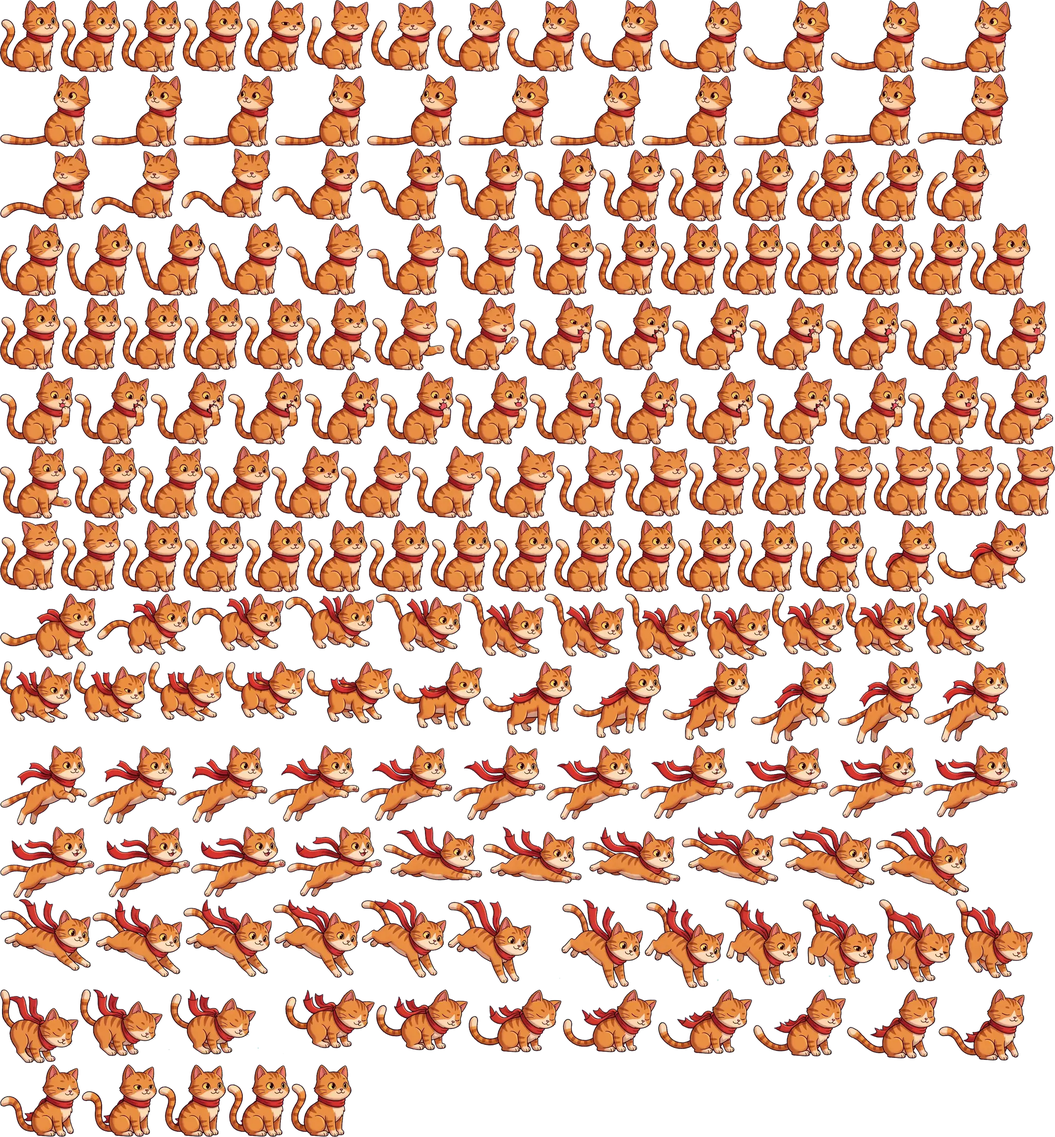
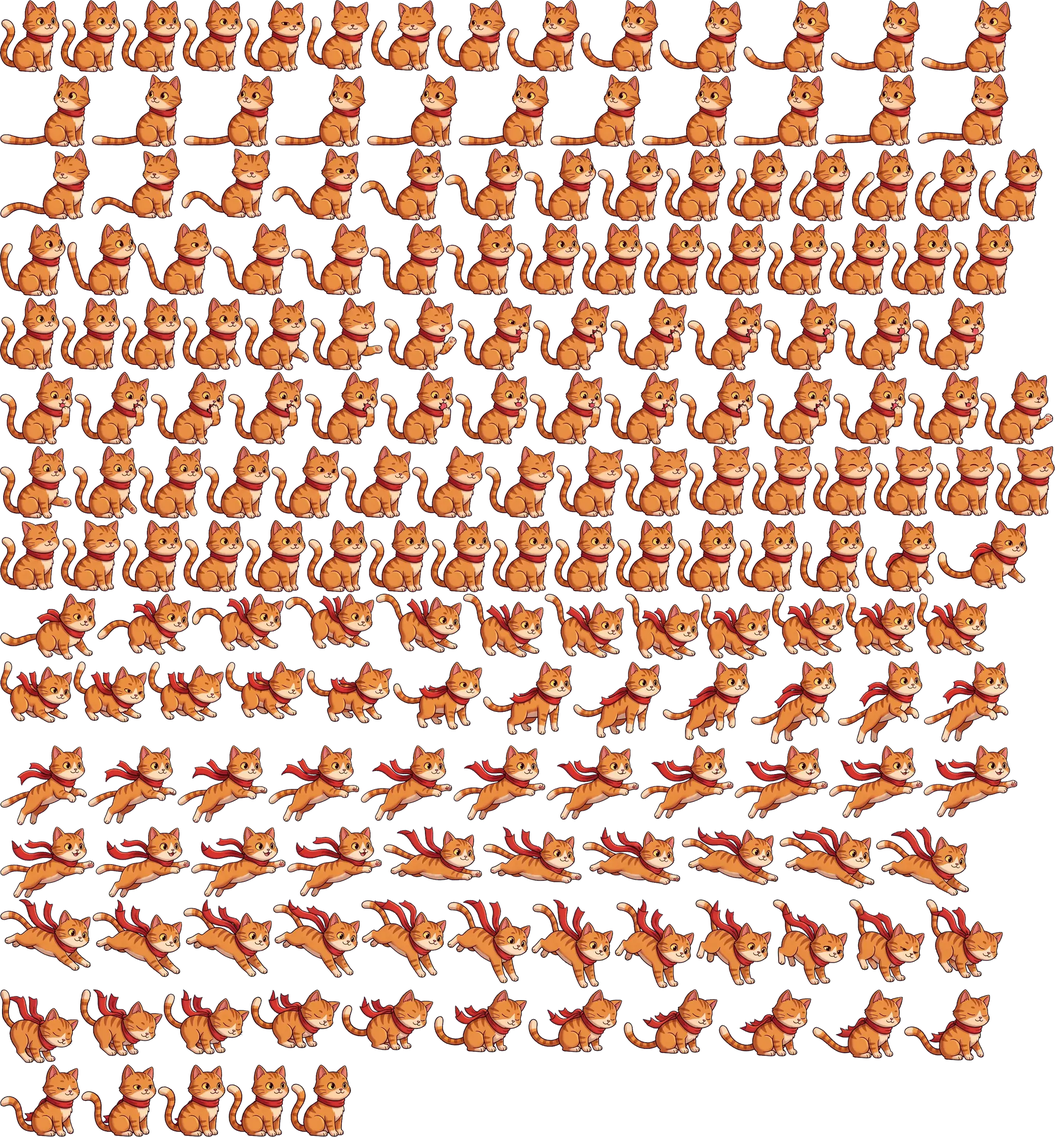
Rooftop cats: drop keyed specks, record each frame's centroid
Claude-Session: https://claude.ai/code/session_01YZco6s8NVvTizsLoHzhqp8

Changed region(s): [[0.0, 0.1249, 1.0, 0.3436], [0.0938, 0.7809, 1.0, 0.9995]]

diff --git a/sheets/assets/ghost-roofs-cats/cats.js b/sheets/assets/ghost-roofs-cats/cats.js
@@ -1,2 +1,2 @@
 /* written by gondar/sprite-refs scripts/roofcats_build.py — the rooftop cats' clips (ukulele-warmup/roofs.js) */
-window.ROOFCATS = {"ginger":{"img":"cat-ginger.webp","size":[2048,2209],"clips":{"look":[[0,0,116,141,-59.8,-137.0],[118,0,116,141,-59.8,-137.0],[236,0,116,141,-59.8,-137.0],[354,0,118,140,-60.8,-136.0],[474,0,119,140,-61.8,-136.0],[595,0,123,136,-64.8,-132.0],[720,0,127,138,-69.8,-134.0],[849,0,133,140,-77.8,-136.0],[984,0,141,140,-86.8,-136.0],[1127,0,151,140,-96.8,-136.0],[1280,0,161,142,-106.8,-138.0],[1443,0,168,142,-113.8,-138.0],[1613,0,173,142,-118.8,-138.0],[1788,0,176,142,-121.8,-138.0],[0,144,176,142,-121.8,-138.0],[178,144,176,142,-121.8,-138.0],[356,144,176,142,-121.8,-138.0],[534,144,176,142,-121.8,-138.0],[712,144,176,142,-121.8,-138.0],[890,144,176,142,-121.8,-138.0],[1068,144,176,142,-121.8,-138.0],[1246,144,176,142,-121.8,-138.0],[1424,144,176,142,-121.8,-138.0],[1602,144,177,140,-121.8,-136.0],[1781,144,177,139,-121.8,-135.0],[0,288,175,139,-118.8,-135.0],[177,288,173,137,-114.8,-133.0],[352,288,174,136,-112.8,-132.0],[528,288,170,140,-109.8,-136.0],[700,288,162,141,-103.8,-137.0],[864,288,151,141,-92.8,-137.0],[1017,288,144,142,-82.8,-138.0],[1163,288,132,143,-69.8,-139.0],[1297,288,123,143,-60.8,-139.0],[1422,288,123,143,-60.8,-139.0],[1547,288,123,143,-60.8,-139.0],[1672,288,125,143,-62.8,-139.0],[1799,288,126,143,-63.8,-139.0],[0,433,128,143,-65.8,-139.0],[130,433,132,143,-69.8,-139.0],[264,433,139,142,-76.8,-138.0],[405,433,148,141,-85.8,-137.0],[555,433,155,141,-91.8,-137.0],[712,433,155,141,-92.8,-137.0],[869,433,147,141,-86.8,-137.0],[1018,433,135,141,-77.8,-137.0],[1155,433,125,141,-67.8,-137.0],[1282,433,119,141,-61.8,-137.0],[1403,433,118,141,-60.8,-137.0],[1523,433,118,141,-60.8,-137.0],[1643,433,118,141,-60.8,-137.0],[1763,433,118,141,-60.8,-137.0],[1883,433,118,141,-60.8,-137.0],[0,578,118,141,-60.8,-137.0]],"groom":[[120,578,116,141,-59.8,-137.0],[238,578,116,141,-59.8,-137.0],[356,578,116,141,-59.8,-137.0],[474,578,118,141,-60.8,-137.0],[594,578,126,142,-62.8,-138.0],[722,578,141,142,-67.8,-138.0],[865,578,142,142,-72.8,-138.0],[1009,578,144,142,-76.8,-138.0],[1155,578,148,142,-79.8,-138.0],[1305,578,148,142,-80.8,-138.0],[1455,578,145,142,-79.8,-138.0],[1602,578,143,142,-79.8,-138.0],[1747,578,142,142,-78.8,-138.0],[1891,578,141,142,-77.8,-138.0],[0,722,142,142,-77.8,-138.0],[144,722,146,142,-78.8,-138.0],[292,722,148,142,-78.8,-138.0],[442,722,147,142,-78.8,-138.0],[591,722,145,142,-78.8,-138.0],[738,722,143,142,-78.8,-138.0],[883,722,142,142,-78.8,-138.0],[1027,722,143,142,-78.8,-138.0],[1172,722,145,142,-78.8,-138.0],[1319,722,148,142,-78.8,-138.0],[1469,722,147,142,-78.8,-138.0],[1618,722,142,142,-76.8,-138.0],[1762,722,139,142,-75.8,-138.0],[1903,722,142,142,-71.8,-138.0],[0,866,139,142,-68.8,-138.0],[141,866,126,142,-66.8,-138.0],[269,866,125,142,-65.8,-138.0],[396,866,129,142,-67.8,-138.0],[527,866,132,142,-69.8,-138.0],[661,866,137,141,-72.8,-137.0],[800,866,139,141,-73.8,-137.0],[941,866,137,141,-72.8,-137.0],[1080,866,129,139,-68.8,-135.0],[1211,866,124,138,-65.8,-134.0],[1337,866,120,136,-62.8,-132.0],[1459,866,117,136,-61.8,-132.0],[1578,866,116,137,-60.8,-133.0],[1696,866,116,137,-60.8,-133.0],[1814,866,116,137,-60.8,-133.0],[1932,866,116,137,-60.8,-133.0],[0,1010,116,137,-60.8,-133.0],[118,1010,117,139,-60.8,-135.0],[237,1010,117,141,-60.8,-137.0],[356,1010,118,141,-60.8,-137.0],[476,1010,118,141,-60.8,-137.0],[596,1010,118,141,-60.8,-137.0],[716,1010,118,141,-60.8,-137.0],[836,1010,118,141,-60.8,-137.0],[956,1010,118,141,-60.8,-137.0],[1076,1010,118,141,-60.8,-137.0]],"crouch":[[1196,1010,116,141,-59.8,-137.0],[1314,1010,116,141,-59.8,-137.0],[1432,1010,118,141,-61.8,-137.0],[1552,1010,125,141,-67.8,-137.0],[1679,1010,139,141,-77.8,-137.0],[1820,1010,175,135,-102.8,-131.0],[0,1153,186,129,-111.8,-125.0],[188,1153,183,120,-106.8,-116.0],[373,1153,178,112,-103.8,-111.0],[553,1153,174,108,-102.8,-107.0],[729,1153,168,116,-97.8,-112.0],[899,1153,156,125,-86.8,-121.0],[1057,1153,154,126,-84.8,-122.0],[1213,1153,145,130,-75.8,-126.0],[1360,1153,136,130,-66.8,-126.0],[1498,1153,141,122,-73.8,-118.0]],"takeoff":[[1641,1153,136,122,-70.8,-118.0],[1779,1153,137,121,-70.8,-117.0],[0,1285,140,120,-70.8,-116.0],[142,1285,143,119,-71.8,-115.0],[287,1285,148,117,-73.8,-113.0],[437,1285,156,113,-78.8,-109.0],[595,1285,166,121,-85.8,-117.0],[763,1285,173,133,-89.8,-129.0],[938,1285,173,143,-87.8,-142.0],[1113,1285,171,149,-84.8,-148.0],[1286,1285,170,153,-82.8,-152.0],[1458,1285,166,161,-75.8,-160.0],[1626,1285,165,161,-72.8,-163.0],[1793,1285,165,158,-69.8,-165.0],[0,1448,169,156,-67.8,-167.0],[171,1448,172,154,-64.8,-169.0],[345,1448,174,151,-62.8,-170.0],[521,1448,177,149,-61.8,-171.0],[700,1448,178,147,-60.8,-172.0],[880,1448,179,146,-59.8,-173.0],[1061,1448,180,145,-58.8,-174.0],[1243,1448,181,143,-58.8,-174.0],[1426,1448,181,143,-57.8,-175.0],[1609,1448,182,141,-57.8,-175.0],[1793,1448,182,140,-56.8,-175.0],[0,1606,183,139,-56.8,-175.0],[185,1606,184,138,-56.8,-175.0],[371,1606,184,138,-55.8,-175.0],[557,1606,185,137,-55.8,-175.0]],"landing":[[744,1606,192,105,-119.8,-178.0],[938,1606,191,111,-117.8,-178.0],[1131,1606,190,114,-115.8,-175.0],[1323,1606,188,114,-113.8,-169.0],[1513,1606,185,121,-110.8,-169.0],[1700,1606,182,135,-107.8,-176.0],[0,1747,177,140,-103.8,-174.0],[179,1747,175,152,-99.8,-179.0],[356,1747,172,152,-94.8,-172.0],[530,1747,169,153,-89.8,-167.0],[701,1747,166,153,-84.8,-161.0],[869,1747,219,164,-79.8,-166.0],[1090,1747,159,173,-71.6,-171.0],[1251,1747,155,173,-86.3,-169.0],[1408,1747,148,168,-59.1,-164.0],[1558,1747,146,167,-55.9,-163.0],[1706,1747,147,162,-54.7,-158.0],[1855,1747,150,154,-54.4,-150.0],[0,1922,153,144,-54.2,-140.0],[155,1922,174,130,-61.0,-126.0],[331,1922,220,127,-118.8,-123.0],[553,1922,175,115,-78.5,-111.0],[730,1922,178,119,-85.3,-115.0],[910,1922,180,123,-92.1,-119.0],[1092,1922,183,123,-95.8,-119.0],[1277,1922,183,126,-100.6,-122.0],[1462,1922,180,131,-105.4,-127.0],[1644,1922,176,135,-110.2,-131.0],[1822,1922,167,139,-108.9,-135.0],[0,2068,157,141,-97.7,-137.0],[159,2068,146,141,-87.5,-137.0],[307,2068,132,141,-73.3,-137.0],[441,2068,122,141,-64.0,-137.0],[565,2068,118,141,-60.8,-137.0]]},"touch":11,"push":13,"out":[36.7,-38.0],"in":[-23.8,-73.0]},"tux":{"img":"cat-tux.webp","size":[2048,2264],"clips":{"look":[[0,0,115,142,-59.8,-138.0],[117,0,115,142,-59.8,-138.0],[234,0,116,141,-59.8,-137.0],[352,0,117,141,-59.8,-137.0],[471,0,120,139,-61.8,-135.0],[593,0,122,137,-64.8,-133.0],[717,0,127,139,-70.8,-135.0],[846,0,135,141,-79.8,-137.0],[983,0,146,141,-90.8,-137.0],[1131,0,157,141,-101.8,-137.0],[1290,0,164,142,-108.8,-138.0],[1456,0,168,143,-112.8,-139.0],[1626,0,169,143,-113.8,-139.0],[1797,0,169,143,-113.8,-139.0],[0,145,169,143,-113.8,-139.0],[171,145,169,143,-113.8,-139.0],[342,145,169,143,-113.8,-139.0],[513,145,169,143,-113.8,-139.0],[684,145,169,143,-113.8,-139.0],[855,145,169,143,-113.8,-139.0],[1026,145,169,143,-113.8,-139.0],[1197,145,169,141,-113.8,-137.0],[1368,145,169,140,-113.8,-136.0],[1539,145,170,139,-112.8,-135.0],[1711,145,170,137,-111.8,-133.0],[0,290,169,137,-109.8,-133.0],[171,290,167,139,-106.8,-135.0],[340,290,164,141,-103.8,-137.0],[506,290,159,142,-98.8,-138.0],[667,290,150,142,-91.8,-138.0],[819,290,140,143,-82.8,-139.0],[961,290,131,143,-71.8,-139.0],[1094,290,120,143,-60.8,-139.0],[1216,290,120,143,-60.8,-139.0],[1338,290,121,143,-61.8,-139.0],[1461,290,124,143,-64.8,-139.0],[1587,290,128,143,-68.8,-139.0],[1717,290,134,143,-74.8,-139.0],[1853,290,142,143,-82.8,-139.0],[0,435,148,143,-89.8,-139.0],[150,435,153,142,-94.8,-138.0],[305,435,155,141,-94.8,-137.0],[462,435,152,141,-92.8,-137.0],[616,435,148,140,-88.8,-136.0],[766,435,141,140,-82.8,-136.0],[909,435,132,141,-74.8,-137.0],[1043,435,125,141,-67.8,-137.0],[1170,435,119,141,-62.8,-137.0],[1291,435,117,142,-60.8,-138.0],[1410,435,117,142,-60.8,-138.0],[1529,435,117,142,-60.8,-138.0],[1648,435,117,142,-60.8,-138.0],[1767,435,117,142,-60.8,-138.0],[1886,435,117,142,-60.8,-138.0]],"groom":[[0,580,116,142,-59.8,-138.0],[118,580,115,142,-59.8,-138.0],[235,580,116,141,-60.8,-138.0],[353,580,119,141,-62.8,-138.0],[474,580,125,141,-66.8,-138.0],[601,580,134,142,-73.8,-139.0],[737,580,143,142,-80.8,-139.0],[882,580,150,142,-85.8,-139.0],[1034,580,152,142,-86.8,-139.0],[1188,580,151,142,-85.8,-139.0],[1341,580,147,142,-83.8,-139.0],[1490,580,144,143,-81.8,-140.0],[1636,580,141,142,-79.8,-139.0],[1779,580,141,142,-79.8,-139.0],[0,725,142,142,-79.8,-139.0],[144,725,143,142,-79.8,-139.0],[289,725,144,142,-79.8,-139.0],[435,725,143,143,-79.8,-140.0],[580,725,142,142,-79.8,-139.0],[724,725,142,142,-79.8,-139.0],[868,725,142,142,-79.8,-139.0],[1012,725,143,142,-79.8,-139.0],[1157,725,144,142,-79.8,-139.0],[1303,725,143,142,-79.8,-139.0],[1448,725,141,143,-78.8,-140.0],[1591,725,140,143,-78.8,-140.0],[1733,725,141,142,-79.8,-139.0],[1876,725,144,142,-82.8,-139.0],[0,870,147,142,-84.8,-139.0],[149,870,150,141,-86.8,-138.0],[301,870,149,142,-85.8,-138.0],[452,870,141,143,-79.8,-139.0],[595,870,132,142,-72.8,-138.0],[729,870,121,139,-64.8,-135.0],[852,870,116,137,-60.8,-133.0],[970,870,116,137,-60.8,-133.0],[1088,870,116,138,-60.8,-134.0],[1206,870,118,139,-62.8,-135.0],[1326,870,120,139,-64.8,-135.0],[1448,870,121,139,-65.8,-135.0],[1571,870,121,138,-65.8,-134.0],[1694,870,120,139,-65.8,-135.0],[1816,870,120,139,-65.8,-135.0],[0,1015,120,139,-65.8,-135.0],[122,1015,119,139,-63.8,-135.0],[243,1015,119,139,-62.8,-135.0],[364,1015,118,141,-61.8,-137.0],[484,1015,117,141,-60.8,-137.0],[603,1015,117,142,-60.8,-138.0],[722,1015,117,142,-60.8,-138.0],[841,1015,117,142,-60.8,-138.0],[960,1015,117,142,-60.8,-138.0],[1079,1015,117,142,-60.8,-138.0],[1198,1015,117,142,-60.8,-138.0]],"crouch":[[1317,1015,116,142,-59.8,-138.0],[1435,1015,117,141,-60.8,-137.0],[1554,1015,119,141,-62.8,-137.0],[1675,1015,125,140,-67.8,-136.0],[1802,1015,132,141,-75.8,-137.0],[0,1159,140,141,-84.8,-137.0],[142,1159,144,143,-90.8,-139.0],[288,1159,160,140,-99.8,-136.0],[450,1159,182,132,-110.8,-128.0],[634,1159,182,121,-107.8,-118.0],[818,1159,178,110,-104.8,-109.0],[998,1159,170,106,-101.8,-106.0],[1170,1159,161,118,-94.8,-115.0],[1333,1159,150,129,-84.8,-126.0],[1485,1159,136,136,-70.8,-133.0],[1623,1159,123,138,-57.8,-135.0],[1748,1159,128,134,-63.8,-131.0],[1878,1159,135,128,-70.8,-125.0]],"takeoff":[[0,1304,134,126,-69.8,-123.0],[136,1304,134,126,-69.8,-123.0],[272,1304,137,124,-70.8,-121.0],[411,1304,139,122,-72.8,-119.0],[552,1304,142,120,-75.8,-117.0],[696,1304,145,118,-76.8,-115.0],[843,1304,150,116,-80.8,-113.0],[995,1304,155,112,-84.8,-109.0],[1152,1304,164,107,-88.8,-104.0],[1318,1304,173,111,-92.8,-108.0],[1493,1304,181,120,-95.8,-117.0],[1676,1304,185,129,-96.8,-126.0],[1863,1304,184,135,-95.8,-134.0],[0,1441,182,139,-93.8,-139.0],[184,1441,180,143,-91.8,-143.0],[366,1441,178,148,-87.8,-148.0],[546,1441,178,154,-84.8,-154.0],[726,1441,176,159,-79.8,-159.0],[904,1441,177,164,-75.8,-165.0],[1083,1441,178,161,-72.8,-165.0],[1263,1441,180,158,-71.8,-165.0],[1445,1441,183,155,-70.8,-165.0],[1630,1441,185,153,-69.8,-166.0],[1817,1441,186,152,-68.8,-167.0],[0,1607,187,151,-67.8,-168.0],[189,1607,188,149,-66.8,-169.0],[379,1607,189,148,-66.8,-170.0],[570,1607,191,147,-65.8,-171.0],[763,1607,191,146,-64.8,-171.0],[956,1607,192,145,-64.8,-172.0],[1150,1607,192,145,-63.8,-173.0],[1344,1607,192,143,-62.8,-173.0],[1538,1607,193,143,-62.8,-174.0]],"landing":[[1733,1607,198,92,-117.8,-167.0],[0,1760,193,97,-112.8,-164.0],[195,1760,189,100,-109.8,-160.0],[386,1760,182,108,-104.8,-160.0],[570,1760,177,120,-100.8,-163.0],[749,1760,170,130,-95.8,-164.0],[921,1760,166,142,-91.8,-166.0],[1089,1760,165,153,-88.8,-167.0],[1256,1760,163,163,-83.8,-169.0],[1421,1760,161,174,-78.8,-171.0],[1584,1760,158,177,-73.6,-173.0],[1744,1760,154,178,-68.3,-174.0],[1900,1760,146,179,-60.1,-175.0],[0,1941,137,179,-48.8,-175.0],[139,1941,130,177,-42.6,-173.0],[271,1941,125,169,-38.3,-165.0],[398,1941,126,156,-40.1,-153.0],[526,1941,130,141,-45.8,-138.0],[658,1941,137,130,-53.6,-127.0],[797,1941,150,122,-64.3,-119.0],[949,1941,159,114,-72.1,-111.0],[1110,1941,166,104,-79.8,-101.0],[1278,1941,170,112,-87.6,-108.0],[1450,1941,175,119,-97.3,-115.0],[1627,1941,179,119,-103.0,-115.0],[1808,1941,183,120,-108.8,-116.0],[0,2122,186,125,-114.6,-121.0],[188,2122,182,131,-115.3,-127.0],[372,2122,173,136,-112.0,-132.0],[547,2122,164,140,-104.8,-136.0],[713,2122,150,141,-91.6,-137.0],[865,2122,137,141,-79.3,-137.0],[1004,2122,126,142,-69.1,-138.0],[1132,2122,120,142,-63.8,-138.0]]},"touch":9,"push":19,"out":[33.7,-31.0],"in":[-18.8,-75.0]},"plate":0.9375};
+window.ROOFCATS = {"ginger":{"img":"cat-ginger.webp","size":[2048,2209],"clips":{"look":[[0,0,116,141,-59.8,-137.0,2.7,-60.9],[118,0,116,141,-59.8,-137.0,2.7,-60.9],[236,0,116,141,-59.8,-137.0,2.7,-60.8],[354,0,118,140,-60.8,-136.0,3.0,-60.4],[474,0,119,140,-61.8,-136.0,3.1,-60.0],[595,0,123,136,-64.8,-132.0,2.6,-59.3],[720,0,127,138,-69.8,-134.0,1.4,-59.2],[849,0,133,140,-77.8,-136.0,-0.1,-58.6],[984,0,141,140,-86.8,-136.0,-0.8,-58.3],[1127,0,151,140,-96.8,-136.0,-1.4,-57.5],[1280,0,161,142,-106.8,-138.0,-1.6,-56.7],[1443,0,168,142,-113.8,-138.0,-1.6,-56.0],[1613,0,173,142,-118.8,-138.0,-1.7,-55.3],[1788,0,176,142,-121.8,-138.0,-1.6,-55.0],[0,144,176,142,-121.8,-138.0,-1.5,-54.8],[178,144,176,142,-121.8,-138.0,-1.4,-54.7],[356,144,176,142,-121.8,-138.0,-1.3,-54.8],[534,144,176,142,-121.8,-138.0,-1.3,-54.8],[712,144,176,142,-121.8,-138.0,-1.3,-54.8],[890,144,176,142,-121.8,-138.0,-1.3,-54.8],[1068,144,176,142,-121.8,-138.0,-1.3,-54.8],[1246,144,176,142,-121.8,-138.0,-1.3,-54.8],[1424,144,176,142,-121.8,-138.0,-1.3,-54.8],[1602,144,177,140,-121.8,-136.0,-1.5,-54.5],[1781,144,177,139,-121.8,-135.0,-1.5,-54.3],[0,288,175,139,-118.8,-135.0,-1.4,-54.3],[177,288,173,137,-114.8,-133.0,-0.8,-54.8],[352,288,174,136,-112.8,-132.0,0.5,-56.7],[528,288,170,140,-109.8,-136.0,0.9,-57.9],[700,288,162,141,-103.8,-137.0,1.0,-59.1],[864,288,151,141,-92.8,-137.0,1.6,-60.2],[1017,288,141,142,-82.8,-138.0,2.3,-60.7],[1160,288,128,143,-69.8,-139.0,2.9,-60.9],[1290,288,119,143,-60.8,-139.0,3.6,-60.9],[1411,288,119,143,-60.8,-139.0,4.3,-60.7],[1532,288,119,143,-60.8,-139.0,4.6,-60.5],[1653,288,121,143,-62.8,-139.0,4.3,-60.4],[1776,288,122,143,-63.8,-139.0,3.8,-60.5],[1900,288,124,143,-65.8,-139.0,3.1,-60.6],[0,433,128,143,-69.8,-139.0,2.5,-60.7],[130,433,135,142,-76.8,-138.0,2.2,-60.7],[267,433,144,141,-85.8,-137.0,1.9,-60.3],[413,433,150,141,-91.8,-137.0,1.8,-59.9],[565,433,151,141,-92.8,-137.0,2.1,-59.6],[718,433,145,141,-86.8,-137.0,2.0,-60.0],[865,433,135,141,-77.8,-137.0,2.1,-60.5],[1002,433,125,141,-67.8,-137.0,2.5,-60.8],[1129,433,119,141,-61.8,-137.0,2.7,-60.8],[1250,433,118,141,-60.8,-137.0,2.8,-60.8],[1370,433,118,141,-60.8,-137.0,2.8,-60.8],[1490,433,118,141,-60.8,-137.0,2.8,-60.8],[1610,433,118,141,-60.8,-137.0,2.8,-60.8],[1730,433,118,141,-60.8,-137.0,2.8,-60.8],[1850,433,118,141,-60.8,-137.0,2.8,-60.8]],"groom":[[0,578,116,141,-59.8,-137.0,2.8,-60.9],[118,578,116,141,-59.8,-137.0,2.7,-60.9],[236,578,116,141,-59.8,-137.0,2.9,-60.5],[354,578,118,141,-60.8,-137.0,3.8,-60.2],[474,578,126,142,-62.8,-138.0,4.8,-60.3],[602,578,141,142,-67.8,-138.0,6.2,-60.2],[745,578,142,142,-72.8,-138.0,6.9,-60.2],[889,578,144,142,-76.8,-138.0,6.8,-60.0],[1035,578,148,142,-79.8,-138.0,6.5,-59.8],[1185,578,148,142,-80.8,-138.0,6.5,-60.0],[1335,578,145,142,-79.8,-138.0,6.3,-60.1],[1482,578,143,142,-79.8,-138.0,6.2,-60.3],[1627,578,142,142,-78.8,-138.0,6.3,-60.5],[1771,578,141,142,-77.8,-138.0,6.3,-60.5],[0,722,142,142,-77.8,-138.0,6.5,-60.2],[144,722,146,142,-78.8,-138.0,6.5,-60.0],[292,722,148,142,-78.8,-138.0,6.6,-59.8],[442,722,147,142,-78.8,-138.0,6.6,-59.9],[591,722,145,142,-78.8,-138.0,6.6,-60.1],[738,722,143,142,-78.8,-138.0,6.5,-60.2],[883,722,142,142,-78.8,-138.0,6.4,-60.3],[1027,722,143,142,-78.8,-138.0,6.5,-60.2],[1172,722,145,142,-78.8,-138.0,6.6,-60.0],[1319,722,148,142,-78.8,-138.0,6.7,-59.8],[1469,722,147,142,-78.8,-138.0,6.5,-60.0],[1618,722,142,142,-76.8,-138.0,6.5,-60.3],[1762,722,139,142,-75.8,-138.0,6.6,-60.5],[1903,722,142,142,-71.8,-138.0,5.8,-60.5],[0,866,139,142,-68.8,-138.0,5.4,-60.0],[141,866,126,142,-66.8,-138.0,4.3,-60.0],[269,866,125,142,-65.8,-138.0,4.2,-60.1],[396,866,129,142,-67.8,-138.0,4.6,-60.0],[527,866,132,142,-69.8,-138.0,5.1,-59.7],[661,866,137,141,-72.8,-137.0,5.5,-59.4],[800,866,139,141,-73.8,-137.0,5.5,-59.1],[941,866,137,141,-72.8,-137.0,4.9,-59.5],[1080,866,129,139,-68.8,-135.0,3.8,-60.0],[1211,866,124,138,-65.8,-134.0,3.1,-60.4],[1337,866,120,136,-62.8,-132.0,2.5,-60.7],[1459,866,117,136,-61.8,-132.0,2.0,-60.9],[1578,866,116,137,-60.8,-133.0,2.0,-61.0],[1696,866,116,137,-60.8,-133.0,2.0,-61.1],[1814,866,116,137,-60.8,-133.0,2.0,-61.0],[1932,866,116,137,-60.8,-133.0,2.0,-60.9],[0,1010,116,137,-60.8,-133.0,2.0,-60.9],[118,1010,117,139,-60.8,-135.0,2.3,-61.2],[237,1010,117,141,-60.8,-137.0,2.6,-61.0],[356,1010,118,141,-60.8,-137.0,2.8,-60.8],[476,1010,118,141,-60.8,-137.0,2.8,-60.8],[596,1010,118,141,-60.8,-137.0,2.8,-60.8],[716,1010,118,141,-60.8,-137.0,2.8,-60.8],[836,1010,118,141,-60.8,-137.0,2.8,-60.8],[956,1010,118,141,-60.8,-137.0,2.8,-60.8],[1076,1010,118,141,-60.8,-137.0,2.8,-60.8]],"crouch":[[1196,1010,116,141,-59.8,-137.0,2.7,-60.9],[1314,1010,116,141,-59.8,-137.0,2.7,-60.8],[1432,1010,118,141,-61.8,-137.0,2.7,-60.5],[1552,1010,125,141,-67.8,-137.0,2.6,-60.1],[1679,1010,139,141,-77.8,-137.0,3.3,-59.6],[1820,1010,175,135,-102.8,-131.0,5.6,-56.5],[0,1153,186,129,-111.8,-125.0,6.5,-55.3],[188,1153,183,120,-106.8,-116.0,4.1,-53.7],[373,1153,178,112,-103.8,-111.0,1.4,-54.6],[553,1153,174,108,-102.8,-107.0,0.3,-54.6],[729,1153,168,116,-97.8,-112.0,0.5,-53.9],[899,1153,156,125,-86.8,-121.0,1.1,-53.9],[1057,1153,154,126,-84.8,-122.0,1.2,-53.8],[1213,1153,145,130,-75.8,-126.0,1.7,-53.7],[1360,1153,136,130,-66.8,-126.0,1.5,-54.0],[1498,1153,141,122,-73.8,-118.0,0.6,-54.1]],"takeoff":[[1641,1153,136,122,-70.8,-118.0,0.7,-53.7],[1779,1153,137,121,-70.8,-117.0,1.6,-53.1],[0,1285,140,120,-70.8,-116.0,2.8,-52.1],[142,1285,143,119,-71.8,-115.0,3.4,-51.6],[287,1285,148,117,-73.8,-113.0,4.2,-51.4],[437,1285,156,113,-78.8,-109.0,5.8,-52.2],[595,1285,166,121,-85.8,-117.0,8.5,-54.7],[763,1285,173,133,-89.8,-129.0,13.0,-58.9],[938,1285,173,143,-87.8,-142.0,17.6,-65.4],[1113,1285,171,149,-84.8,-148.0,18.6,-70.0],[1286,1285,170,153,-82.8,-152.0,19.3,-74.2],[1458,1285,166,161,-75.8,-160.0,22.7,-81.7],[1626,1285,165,161,-72.8,-163.0,25.2,-85.9],[1793,1285,165,158,-69.8,-165.0,27.8,-89.4],[0,1448,169,156,-67.8,-167.0,30.0,-92.1],[171,1448,172,154,-64.8,-169.0,32.1,-94.8],[345,1448,174,151,-62.8,-170.0,33.9,-97.1],[521,1448,177,149,-61.8,-171.0,35.3,-99.1],[700,1448,178,147,-60.8,-172.0,36.4,-100.8],[880,1448,179,146,-59.8,-173.0,37.3,-102.2],[1061,1448,180,145,-58.8,-174.0,38.0,-103.4],[1243,1448,181,143,-58.8,-174.0,38.7,-104.6],[1426,1448,181,143,-57.8,-175.0,39.3,-105.5],[1609,1448,182,141,-57.8,-175.0,39.8,-106.6],[1793,1448,182,140,-56.8,-175.0,40.3,-107.4],[0,1606,183,139,-56.8,-175.0,40.7,-108.2],[185,1606,184,138,-56.8,-175.0,41.1,-108.9],[371,1606,184,138,-55.8,-175.0,41.4,-109.6],[557,1606,185,137,-55.8,-175.0,41.9,-110.2]],"landing":[[744,1606,192,105,-119.8,-178.0,-15.9,-117.9],[938,1606,191,111,-117.8,-178.0,-14.1,-115.8],[1131,1606,190,114,-115.8,-175.0,-12.3,-113.7],[1323,1606,188,114,-113.8,-169.0,-9.5,-111.6],[1513,1606,185,121,-110.8,-169.0,-7.2,-110.3],[1700,1606,182,135,-107.8,-176.0,-4.9,-108.3],[0,1747,177,140,-103.8,-174.0,-3.1,-104.9],[179,1747,175,152,-99.8,-179.0,-1.6,-101.7],[356,1747,172,152,-94.8,-172.0,0.5,-98.0],[530,1747,169,153,-89.8,-167.0,3.2,-94.6],[701,1747,165,153,-84.8,-161.0,5.0,-92.4],[868,1747,162,164,-79.8,-166.0,6.9,-89.6],[1032,1747,159,173,-71.6,-171.0,11.2,-85.8],[1193,1747,155,173,-65.3,-169.0,13.7,-81.1],[1350,1747,148,168,-59.1,-164.0,13.4,-77.6],[1500,1747,146,167,-55.9,-163.0,14.9,-73.5],[1648,1747,147,162,-54.7,-158.0,15.7,-70.0],[1797,1747,150,154,-54.4,-150.0,16.2,-66.1],[0,1922,153,144,-54.2,-140.0,16.4,-61.2],[155,1922,161,130,-61.0,-126.0,15.5,-57.5],[318,1922,166,127,-67.8,-123.0,13.9,-56.0],[486,1922,175,115,-78.5,-111.0,11.6,-53.9],[663,1922,178,119,-85.3,-115.0,9.3,-52.8],[843,1922,180,123,-92.1,-119.0,7.6,-50.7],[1025,1922,183,123,-95.8,-119.0,7.1,-50.0],[1210,1922,183,126,-100.6,-122.0,5.0,-50.4],[1395,1922,180,131,-105.4,-127.0,2.1,-51.9],[1577,1922,176,135,-110.2,-131.0,-0.7,-53.6],[1755,1922,167,139,-108.9,-135.0,-2.1,-56.3],[0,2068,156,141,-97.7,-137.0,0.2,-58.3],[158,2068,146,141,-87.5,-137.0,1.8,-59.3],[306,2068,132,141,-73.3,-137.0,3.3,-60.4],[440,2068,122,141,-64.0,-137.0,3.1,-60.7],[564,2068,118,141,-60.8,-137.0,2.7,-60.8]]},"touch":11,"push":13,"out":[36.7,-38.0],"in":[-23.8,-73.0]},"tux":{"img":"cat-tux.webp","size":[2048,2264],"clips":{"look":[[0,0,115,142,-59.8,-138.0,2.1,-61.1],[117,0,115,142,-59.8,-138.0,2.1,-61.0],[234,0,116,141,-59.8,-137.0,2.5,-61.0],[352,0,117,141,-59.8,-137.0,3.0,-60.8],[471,0,120,139,-61.8,-135.0,3.3,-60.5],[593,0,122,137,-64.8,-133.0,2.8,-60.1],[717,0,127,139,-70.8,-135.0,1.5,-59.6],[846,0,135,141,-79.8,-137.0,0.4,-59.0],[983,0,146,141,-90.8,-137.0,-0.3,-58.2],[1131,0,157,141,-101.8,-137.0,-0.3,-57.4],[1290,0,164,142,-108.8,-138.0,0.1,-56.8],[1456,0,168,143,-112.8,-139.0,0.3,-56.1],[1626,0,169,143,-113.8,-139.0,0.6,-55.8],[1797,0,169,143,-113.8,-139.0,0.8,-55.8],[0,145,169,143,-113.8,-139.0,0.7,-55.7],[171,145,169,143,-113.8,-139.0,0.7,-55.7],[342,145,169,143,-113.8,-139.0,0.7,-55.7],[513,145,169,143,-113.8,-139.0,0.7,-55.7],[684,145,169,143,-113.8,-139.0,0.7,-55.8],[855,145,169,143,-113.8,-139.0,0.7,-55.8],[1026,145,169,143,-113.8,-139.0,0.7,-55.7],[1197,145,169,141,-113.8,-137.0,0.6,-55.7],[1368,145,169,140,-113.8,-136.0,0.1,-55.6],[1539,145,170,139,-112.8,-135.0,0.4,-56.0],[1711,145,170,137,-111.8,-133.0,0.9,-56.3],[0,290,169,137,-109.8,-133.0,1.3,-57.0],[171,290,167,139,-106.8,-135.0,1.7,-57.7],[340,290,164,141,-103.8,-137.0,1.7,-58.5],[506,290,157,142,-98.8,-138.0,1.9,-59.4],[665,290,150,142,-91.8,-138.0,2.0,-60.1],[817,290,140,143,-82.8,-139.0,2.6,-60.6],[959,290,129,143,-71.8,-139.0,3.1,-60.9],[1090,290,118,143,-60.8,-139.0,3.5,-60.9],[1210,290,118,143,-60.8,-139.0,3.7,-60.8],[1330,290,119,143,-61.8,-139.0,3.6,-60.6],[1451,290,122,143,-64.8,-139.0,3.2,-60.5],[1575,290,126,143,-68.8,-139.0,2.7,-60.4],[1703,290,132,143,-74.8,-139.0,2.2,-60.3],[1837,290,140,143,-82.8,-139.0,1.7,-60.2],[0,435,148,143,-89.8,-139.0,1.6,-60.1],[150,435,153,142,-94.8,-138.0,1.9,-59.8],[305,435,153,141,-94.8,-137.0,2.2,-59.6],[460,435,152,141,-92.8,-137.0,2.4,-59.5],[614,435,148,140,-88.8,-136.0,2.5,-59.7],[764,435,141,140,-82.8,-136.0,2.5,-60.2],[907,435,132,141,-74.8,-137.0,2.4,-60.6],[1041,435,125,141,-67.8,-137.0,2.3,-60.9],[1168,435,119,141,-62.8,-137.0,2.2,-61.1],[1289,435,117,142,-60.8,-138.0,2.2,-61.1],[1408,435,117,142,-60.8,-138.0,2.2,-61.1],[1527,435,117,142,-60.8,-138.0,2.2,-61.1],[1646,435,117,142,-60.8,-138.0,2.2,-61.1],[1765,435,117,142,-60.8,-138.0,2.2,-61.1],[1884,435,117,142,-60.8,-138.0,2.2,-61.1]],"groom":[[0,580,116,142,-59.8,-138.0,2.1,-61.0],[118,580,115,142,-59.8,-138.0,2.1,-61.1],[235,580,116,141,-60.8,-138.0,2.2,-61.2],[353,580,119,141,-62.8,-138.0,2.5,-61.3],[474,580,125,141,-66.8,-138.0,3.4,-60.7],[601,580,134,142,-73.8,-139.0,4.8,-60.3],[737,580,143,142,-80.8,-139.0,5.4,-60.3],[882,580,150,142,-85.8,-139.0,5.5,-60.4],[1034,580,152,142,-86.8,-139.0,5.1,-60.4],[1188,580,151,142,-85.8,-139.0,5.2,-60.5],[1341,580,147,142,-83.8,-139.0,5.2,-60.7],[1490,580,144,143,-81.8,-140.0,5.3,-60.9],[1636,580,141,142,-79.8,-139.0,5.1,-61.0],[1779,580,141,142,-79.8,-139.0,5.1,-61.1],[0,725,142,142,-79.8,-139.0,5.2,-61.0],[144,725,143,142,-79.8,-139.0,5.3,-60.8],[289,725,144,142,-79.8,-139.0,5.4,-60.7],[435,725,143,143,-79.8,-140.0,5.3,-60.8],[580,725,142,142,-79.8,-139.0,5.2,-60.8],[724,725,142,142,-79.8,-139.0,5.2,-60.9],[868,725,142,142,-79.8,-139.0,5.1,-60.9],[1012,725,143,142,-79.8,-139.0,5.2,-60.7],[1157,725,144,142,-79.8,-139.0,5.2,-60.5],[1303,725,143,142,-79.8,-139.0,5.2,-60.7],[1448,725,141,143,-78.8,-140.0,5.2,-60.9],[1591,725,140,143,-78.8,-140.0,5.1,-61.0],[1733,725,141,142,-79.8,-139.0,4.9,-60.8],[1876,725,144,142,-82.8,-139.0,5.0,-60.2],[0,870,147,142,-84.8,-139.0,4.8,-59.9],[149,870,150,141,-86.8,-138.0,4.4,-60.1],[301,870,149,142,-85.8,-138.0,4.5,-59.9],[452,870,141,143,-79.8,-139.0,4.0,-60.3],[595,870,132,142,-72.8,-138.0,3.3,-60.9],[729,870,121,139,-64.8,-135.0,2.4,-61.1],[852,870,116,137,-60.8,-133.0,2.0,-61.1],[970,870,116,137,-60.8,-133.0,1.9,-61.1],[1088,870,116,138,-60.8,-134.0,1.8,-61.2],[1206,870,118,139,-62.8,-135.0,1.7,-61.3],[1326,870,120,139,-64.8,-135.0,1.6,-61.3],[1448,870,121,139,-65.8,-135.0,1.5,-61.3],[1571,870,121,138,-65.8,-134.0,1.3,-61.3],[1694,870,120,139,-65.8,-135.0,1.1,-61.4],[1816,870,120,139,-65.8,-135.0,1.0,-61.5],[0,1015,120,139,-65.8,-135.0,1.2,-61.6],[122,1015,119,139,-63.8,-135.0,1.7,-61.3],[243,1015,119,139,-62.8,-135.0,2.1,-61.1],[364,1015,118,141,-61.8,-137.0,2.3,-61.1],[484,1015,117,141,-60.8,-137.0,2.3,-61.1],[603,1015,117,142,-60.8,-138.0,2.3,-61.1],[722,1015,117,142,-60.8,-138.0,2.2,-61.1],[841,1015,117,142,-60.8,-138.0,2.2,-61.1],[960,1015,117,142,-60.8,-138.0,2.2,-61.0],[1079,1015,117,142,-60.8,-138.0,2.2,-61.0],[1198,1015,117,142,-60.8,-138.0,2.2,-61.0]],"crouch":[[1317,1015,116,142,-59.8,-138.0,2.2,-61.1],[1435,1015,117,141,-60.8,-137.0,2.3,-60.9],[1554,1015,119,141,-62.8,-137.0,2.6,-60.5],[1675,1015,125,140,-67.8,-136.0,2.4,-59.9],[1802,1015,132,141,-75.8,-137.0,1.3,-59.6],[0,1159,140,141,-84.8,-137.0,0.2,-59.7],[142,1159,144,143,-90.8,-139.0,-0.8,-59.8],[288,1159,160,140,-99.8,-136.0,2.3,-58.3],[450,1159,182,132,-110.8,-128.0,7.3,-54.5],[634,1159,182,121,-107.8,-118.0,6.6,-53.3],[818,1159,176,110,-104.8,-109.0,2.9,-51.8],[996,1159,170,106,-101.8,-106.0,0.9,-52.0],[1168,1159,161,118,-94.8,-115.0,-0.0,-52.3],[1331,1159,150,129,-84.8,-126.0,-0.0,-52.8],[1483,1159,136,136,-70.8,-133.0,0.4,-52.7],[1621,1159,123,138,-57.8,-135.0,0.7,-52.6],[1746,1159,128,134,-63.8,-131.0,0.3,-52.4],[1876,1159,135,128,-70.8,-125.0,-0.6,-52.4]],"takeoff":[[0,1304,133,126,-69.8,-123.0,-0.5,-51.6],[135,1304,133,126,-69.8,-123.0,-0.5,-51.6],[270,1304,136,124,-70.8,-121.0,0.3,-50.4],[408,1304,139,122,-72.8,-119.0,0.6,-49.4],[549,1304,142,120,-75.8,-117.0,1.0,-48.6],[693,1304,145,118,-76.8,-115.0,1.1,-48.1],[840,1304,150,116,-80.8,-113.0,1.2,-47.7],[992,1304,155,112,-84.8,-109.0,1.4,-47.3],[1149,1304,164,107,-88.8,-104.0,4.2,-49.1],[1315,1304,173,111,-92.8,-108.0,7.7,-51.3],[1490,1304,181,120,-95.8,-117.0,11.6,-55.1],[1673,1304,185,129,-96.8,-126.0,14.4,-58.9],[1860,1304,184,135,-95.8,-134.0,16.4,-63.2],[0,1441,182,139,-93.8,-139.0,16.5,-67.6],[184,1441,177,143,-91.8,-143.0,17.8,-70.8],[363,1441,175,148,-87.8,-148.0,20.0,-74.7],[540,1441,178,154,-84.8,-154.0,22.2,-78.3],[720,1441,176,159,-79.8,-159.0,24.4,-81.7],[898,1441,177,164,-75.8,-165.0,26.5,-85.0],[1077,1441,178,161,-72.8,-165.0,28.1,-86.7],[1257,1441,180,158,-71.8,-165.0,29.5,-88.4],[1439,1441,183,155,-70.8,-165.0,31.1,-90.3],[1624,1441,185,153,-69.8,-166.0,32.3,-91.8],[1811,1441,186,152,-68.8,-167.0,33.6,-93.5],[0,1607,187,151,-67.8,-168.0,34.6,-94.9],[189,1607,188,149,-66.8,-169.0,35.6,-96.3],[379,1607,189,148,-66.8,-170.0,36.5,-97.4],[570,1607,191,147,-65.8,-171.0,37.5,-98.5],[763,1607,191,146,-64.8,-171.0,38.4,-99.5],[956,1607,192,145,-64.8,-172.0,39.1,-100.4],[1150,1607,192,145,-63.8,-173.0,40.1,-101.4],[1344,1607,192,143,-62.8,-173.0,40.9,-102.2],[1538,1607,193,143,-62.8,-174.0,41.7,-102.9]],"landing":[[1733,1607,198,92,-117.8,-167.0,-9.4,-114.3],[0,1760,193,97,-112.8,-164.0,-7.0,-112.6],[195,1760,189,100,-109.8,-160.0,-5.0,-110.5],[386,1760,182,108,-104.8,-160.0,-2.7,-107.7],[570,1760,177,120,-100.8,-163.0,-0.5,-104.6],[749,1760,170,130,-95.8,-164.0,1.6,-100.7],[921,1760,166,142,-91.8,-166.0,3.4,-97.1],[1089,1760,165,153,-88.8,-167.0,5.5,-92.2],[1256,1760,163,163,-83.8,-169.0,7.4,-87.6],[1421,1760,161,174,-78.8,-171.0,9.0,-82.1],[1584,1760,158,177,-73.6,-173.0,10.6,-78.7],[1744,1760,154,178,-68.3,-174.0,11.3,-76.3],[1900,1760,146,179,-60.1,-175.0,12.0,-73.6],[0,1941,137,179,-48.8,-175.0,13.5,-69.6],[139,1941,130,177,-42.6,-173.0,14.4,-65.2],[271,1941,125,169,-38.3,-165.0,15.0,-59.9],[398,1941,126,156,-40.1,-153.0,15.2,-55.3],[526,1941,130,141,-45.8,-138.0,14.6,-50.7],[658,1941,137,130,-53.6,-127.0,13.5,-47.5],[797,1941,150,122,-64.3,-119.0,11.7,-46.2],[949,1941,159,114,-72.1,-111.0,11.0,-44.9],[1110,1941,166,104,-79.8,-101.0,8.9,-45.4],[1278,1941,170,112,-87.6,-108.0,6.5,-46.1],[1450,1941,175,119,-97.3,-115.0,4.5,-46.4],[1627,1941,179,119,-103.0,-115.0,3.2,-45.7],[1808,1941,183,120,-108.8,-116.0,2.7,-45.5],[0,2122,186,125,-114.6,-121.0,1.2,-47.9],[188,2122,182,131,-115.3,-127.0,0.3,-51.1],[372,2122,173,136,-112.0,-132.0,-0.8,-54.8],[547,2122,164,140,-104.8,-136.0,0.6,-57.9],[713,2122,150,141,-91.6,-137.0,2.6,-59.8],[865,2122,137,141,-79.3,-137.0,3.1,-61.0],[1004,2122,126,142,-69.1,-138.0,2.6,-61.2],[1132,2122,120,142,-63.8,-138.0,2.1,-61.2]]},"touch":9,"push":19,"out":[33.7,-31.0],"in":[-18.8,-75.0]},"plate":0.9375};

diff --git a/scripts/roofcats_build.py b/scripts/roofcats_build.py
@@ -12,7 +12,7 @@ Keying: the ground is flat blue; alpha falls with blue's dominance over red and 
 ~110 on the ground, <= 10 on fur, white and black). Edge pixels are despilled (B clamped to max(R, G) + 6).
 Trimming (transitions): the frames before the first and after the last real movement are dropped (mean abs
 difference to the previous frame on the alpha, > MOVE).
-Writes OUTDIR/cat-<cat>.webp (atlas) and OUTDIR/cats.js: window.ROOFCATS = {plate, <cat>: {img, size, clips: {name: [[x,y,w,h,dx,dy], ...]}, touch, out, in}}
+Writes OUTDIR/cat-<cat>.webp (atlas) and OUTDIR/cats.js: window.ROOFCATS = {plate, <cat>: {img, size, clips: {name: [[x,y,w,h,dx,dy,cx,cy], ...]}, touch, out, in}}
 — dx, dy: the frame's top-left relative to the anchor, atlas px."""
 import json, os, subprocess, sys, numpy as np
 from PIL import Image
@@ -44,6 +44,13 @@ def key(rgb):
     f = rgb.astype(np.float32); r, g, b = f[..., 0], f[..., 1], f[..., 2]
     dom = b - np.maximum(r, g)
     a = np.clip((75 - dom) / 45, 0, 1)
+    # stray specks (keyed noise, a shadow fleck) widen the box and throw the paw pin: keep the cat's own blobs only
+    # (animation review round 3: ginger landing frames 11, 13, 20)
+    from scipy import ndimage as ndi
+    lab, n = ndi.label(a > 0.1)
+    if n > 1:
+        sz = ndi.sum(np.ones_like(a), lab, range(1, n + 1)); keep = np.zeros(n + 1, bool); keep[1:] = sz >= max(400, sz.max() * 0.02)
+        a = np.where(keep[lab], a, 0)
     b2 = np.where(a < 1, np.minimum(b, np.maximum(r, g) + 6), b)
     out = np.dstack([r, g, b2, a * 255])
     out[a == 0] = 0
@@ -107,7 +114,9 @@ def main(outdir):
         out = {"scale": SCALE, "anchor": [AX * SCALE, AY * SCALE], "fps": 12, "clips": {}}
         for n, i, (c, dx, dy) in allc:
             px, py = pos[(n, i)]; atlas.paste(c, (px, py))
-            out["clips"].setdefault(n, []).append([px, py, c.width, c.height, round(dx, 1), round(dy, 1)])
+            al = np.array(c.split()[-1], np.float32); ys, xs = np.nonzero(al > 128)
+            # [x, y, w, h, dx, dy, cx, cy]: cx, cy the body's centroid from the feet (the flight pins frames by it)
+            out["clips"].setdefault(n, []).append([px, py, c.width, c.height, round(dx, 1), round(dy, 1), round(dx + xs.mean(), 1), round(dy + ys.mean(), 1)])
         atlas.save(f"{outdir}/cat-{cat}.webp", "WEBP", quality=72, alpha_quality=80, method=6)
         cl = out["clips"]
         bc = lambda f: [round(f[4] + f[2] / 2, 1), round(f[5] + f[3], 1)]   # bottom centre from the feet
